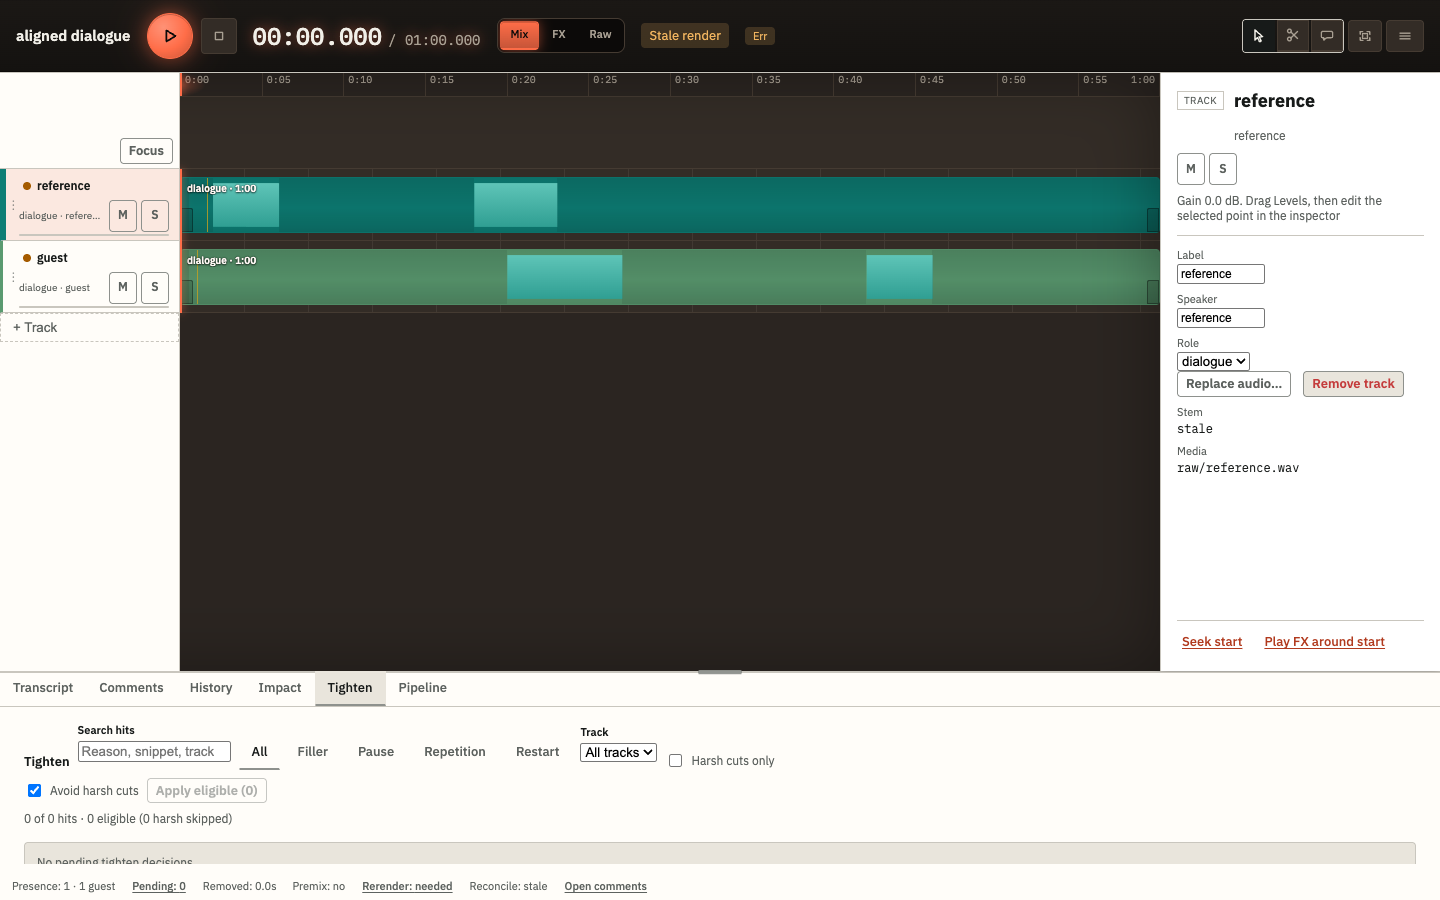
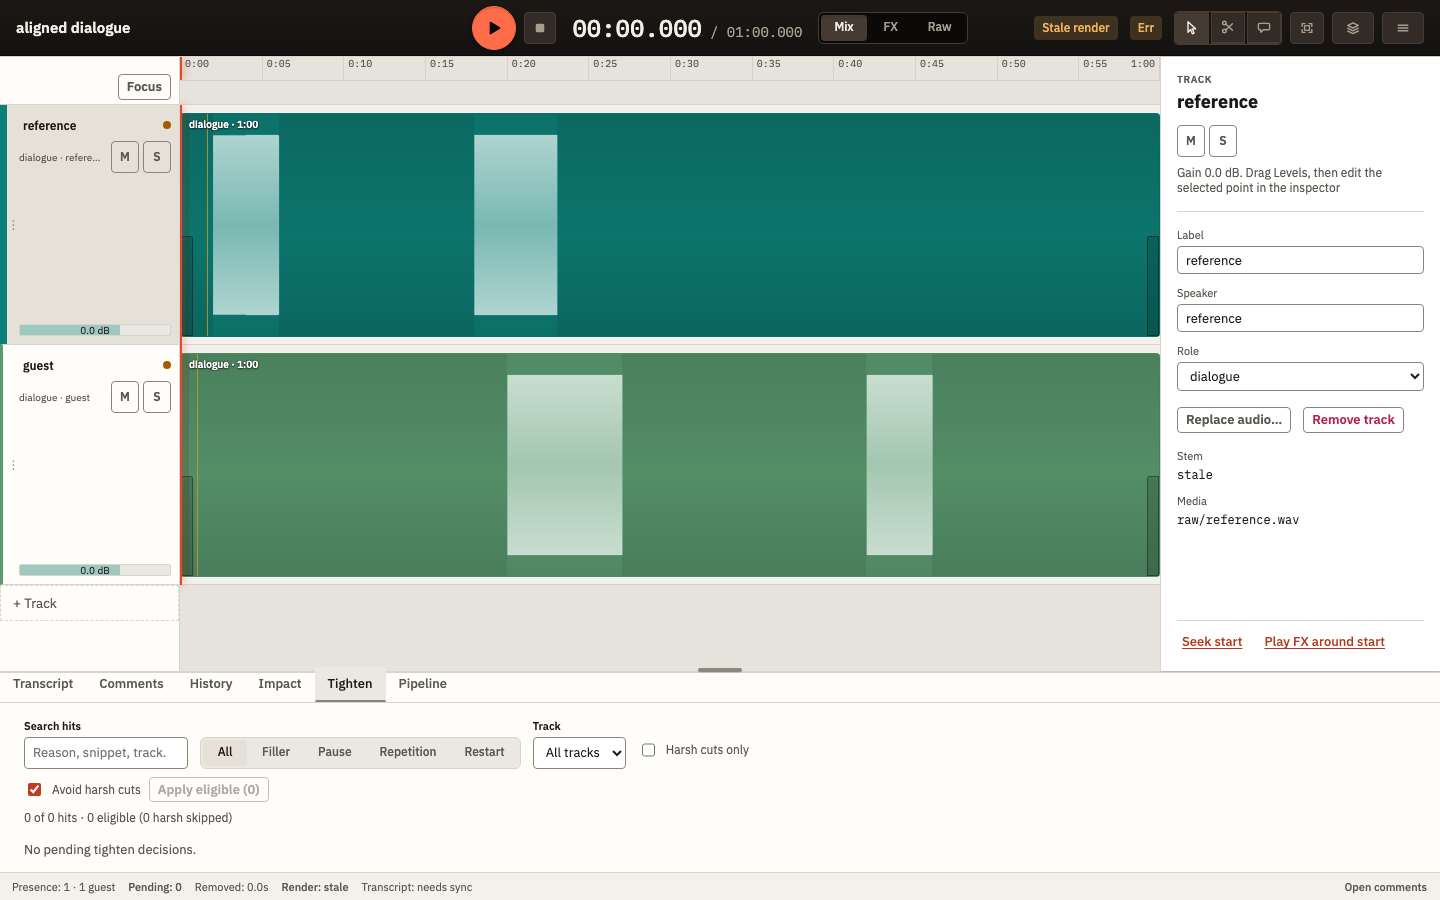
docs(issue-20): regenerate the gallery in both themes
Capture every after view in light and dark (the light files keep their
names so the before/after pairs line up) and add the phone Listen hero.
The gallery README gains a dark column and points at the Storybook
entries behind each view.

Fix what the new captures surfaced: the empty-stage drop label used the
fixed transport ink and vanished on the light stage (it now uses the
themed text color), and the empty-stage copy spelled the shortcut as
"Mod+I" instead of the platform form (⌘I / Ctrl+I).

Related #20

diff --git a/gui/web/e2e/design-polish.spec.ts b/gui/web/e2e/design-polish.spec.ts
@@ -1,6 +1,6 @@
 import fs from "node:fs";
 import path from "node:path";
-import { expect, test } from "@playwright/test";
+import { expect, type Page, test } from "@playwright/test";
 import { expectPageAxeClean } from "./axe";
 import { e2eProjectPath } from "./env";
 
@@ -280,88 +280,103 @@ test("Share dialog floats on the overlay rung over a dark scrim", async ({
 });
 
 test("capture issue 20 review views", async ({ browser }) => {
-  test.setTimeout(30_000);
+  test.setTimeout(90_000);
   const directory = process.env.DESIGN_POLISH_SCREENSHOT_DIR;
   test.skip(!directory, "Set DESIGN_POLISH_SCREENSHOT_DIR for review capture");
   fs.mkdirSync(directory!, { recursive: true });
 
-  const desktop = await browser.newPage({
-    viewport: { width: 1440, height: 900 },
-  });
-  try {
-    await desktop.emulateMedia({ reducedMotion: "reduce" });
-    await desktop.goto(`/?project=${encodeURIComponent(e2eProjectPath)}`);
-    await expect(desktop.locator(".lane-row").first()).toBeVisible();
-    await expect
-      .poll(async () =>
-        desktop
-          .locator("canvas.clip-waveform")
-          .first()
-          .evaluate((canvas) => {
-            const surface = canvas as HTMLCanvasElement;
-            if (!surface.width || !surface.height) return false;
-            const pixels = surface
-              .getContext("2d")
-              ?.getImageData(0, 0, surface.width, surface.height).data;
-            return pixels
-              ? pixels.some((value, index) => index % 4 === 3 && value > 0)
-              : false;
-          }),
-      )
-      .toBe(true);
-    await desktop.screenshot({ path: path.join(directory!, "timeline.png") });
+  // Light files keep their names (paired with before/); dark adds "-dark".
+  for (const theme of ["light", "dark"] as const) {
+    const suffix = theme === "light" ? "" : "-dark";
+    const shot = (name: string) =>
+      path.join(directory!, `${name}${suffix}.png`);
+    const pinTheme = async (page: Page) =>
+      page.evaluate((value) => {
+        document.documentElement.dataset.theme = value;
+      }, theme);
 
-    await desktop
-      .getByRole("button", { name: "Open track details, reference" })
-      .focus();
-    await desktop.keyboard.press("Enter");
-    await expect(desktop.locator(".inspector")).toBeVisible();
-    await desktop.screenshot({ path: path.join(directory!, "inspector.png") });
-
-    await desktop.getByRole("button", { name: "Menu", exact: true }).click();
-    await desktop.getByRole("menuitem", { name: /Share/ }).click();
-    await expect(desktop.getByRole("dialog", { name: "Share" })).toBeVisible();
-    await expect
-      .poll(() =>
-        desktop
-          .getByRole("dialog", { name: "Share" })
-          .evaluate((dialog) => getComputedStyle(dialog).opacity),
-      )
-      .toBe("1");
-    await desktop.screenshot({
-      path: path.join(directory!, "share-dialog.png"),
+    const desktop = await browser.newPage({
+      viewport: { width: 1440, height: 900 },
     });
-    await desktop
-      .getByRole("dialog", { name: "Share" })
-      .getByRole("button", { name: "Close", exact: true })
-      .click();
+    try {
+      await desktop.emulateMedia({
+        reducedMotion: "reduce",
+        colorScheme: theme,
+      });
+      await desktop.goto(`/?project=${encodeURIComponent(e2eProjectPath)}`);
+      await pinTheme(desktop);
+      await expect(desktop.locator(".lane-row").first()).toBeVisible();
+      await expect
+        .poll(async () =>
+          desktop
+            .locator("canvas.clip-waveform")
+            .first()
+            .evaluate((canvas) => {
+              const surface = canvas as HTMLCanvasElement;
+              if (!surface.width || !surface.height) return false;
+              const pixels = surface
+                .getContext("2d")
+                ?.getImageData(0, 0, surface.width, surface.height).data;
+              return pixels
+                ? pixels.some((value, index) => index % 4 === 3 && value > 0)
+                : false;
+            }),
+        )
+        .toBe(true);
+      await desktop.screenshot({ path: shot("timeline") });
 
-    await desktop
-      .getByLabel("Editor panels")
-      .getByRole("button", { name: "Tighten", exact: true })
-      .click();
-    await expect(
-      desktop.getByText("No pending tighten decisions."),
-    ).toBeVisible();
-    await desktop.screenshot({
-      path: path.join(directory!, "empty-state.png"),
+      await desktop
+        .getByRole("button", { name: "Open track details, reference" })
+        .focus();
+      await desktop.keyboard.press("Enter");
+      await expect(desktop.locator(".inspector")).toBeVisible();
+      await desktop.screenshot({ path: shot("inspector") });
+
+      await desktop.getByRole("button", { name: "Menu", exact: true }).click();
+      await desktop.getByRole("menuitem", { name: /Share/ }).click();
+      await expect(
+        desktop.getByRole("dialog", { name: "Share" }),
+      ).toBeVisible();
+      await expect
+        .poll(() =>
+          desktop
+            .getByRole("dialog", { name: "Share" })
+            .evaluate((dialog) => getComputedStyle(dialog).opacity),
+        )
+        .toBe("1");
+      await desktop.screenshot({ path: shot("share-dialog") });
+      await desktop
+        .getByRole("dialog", { name: "Share" })
+        .getByRole("button", { name: "Close", exact: true })
+        .click();
+
+      await desktop
+        .getByLabel("Editor panels")
+        .getByRole("button", { name: "Tighten", exact: true })
+        .click();
+      await expect(
+        desktop.getByText("No pending tighten decisions."),
+      ).toBeVisible();
+      await desktop.screenshot({ path: shot("empty-state") });
+    } finally {
+      await desktop.close();
+    }
+
+    const phone = await browser.newPage({
+      viewport: { width: 390, height: 844 },
     });
-  } finally {
-    await desktop.close();
-  }
-
-  const phone = await browser.newPage({
-    viewport: { width: 390, height: 844 },
-  });
-  try {
-    await phone.emulateMedia({ reducedMotion: "reduce" });
-    await phone.goto(`/?project=${encodeURIComponent(e2eProjectPath)}`);
-    await expect(
-      phone.getByRole("navigation", { name: "Primary" }),
-    ).toBeVisible();
-    await phone.screenshot({ path: path.join(directory!, "mobile-nav.png") });
-  } finally {
-    await phone.close();
+    try {
+      await phone.emulateMedia({ reducedMotion: "reduce", colorScheme: theme });
+      await phone.goto(`/?project=${encodeURIComponent(e2eProjectPath)}`);
+      await pinTheme(phone);
+      await expect(
+        phone.getByRole("navigation", { name: "Primary" }),
+      ).toBeVisible();
+      await expect(phone.locator(".listen-hero")).toBeVisible();
+      await phone.screenshot({ path: shot("mobile-nav") });
+    } finally {
+      await phone.close();
+    }
   }
 });
 
@@ -372,12 +387,22 @@ test("capture empty timeline review view", async ({ page }) => {
     "Set EMPTY_STAGE_SCREENSHOT_DIR with an empty E2E project",
   );
   await page.setViewportSize({ width: 1440, height: 900 });
-  await page.emulateMedia({ reducedMotion: "reduce" });
-  await page.goto(`/?project=${encodeURIComponent(e2eProjectPath)}`);
-  await expect(
-    page.getByRole("button", { name: "Drop audio files or import" }),
-  ).toBeVisible();
-  await expectPageAxeClean(page);
   fs.mkdirSync(directory!, { recursive: true });
-  await page.screenshot({ path: path.join(directory!, "empty-timeline.png") });
+  for (const theme of ["light", "dark"] as const) {
+    await page.emulateMedia({ reducedMotion: "reduce", colorScheme: theme });
+    await page.goto(`/?project=${encodeURIComponent(e2eProjectPath)}`);
+    await page.evaluate((value) => {
+      document.documentElement.dataset.theme = value;
+    }, theme);
+    await expect(
+      page.getByRole("button", { name: "Drop audio files or import" }),
+    ).toBeVisible();
+    await expectPageAxeClean(page);
+    await page.screenshot({
+      path: path.join(
+        directory!,
+        theme === "light" ? "empty-timeline.png" : "empty-timeline-dark.png",
+      ),
+    });
+  }
 });

diff --git a/gui/web/src/layout/StudioShell.tsx b/gui/web/src/layout/StudioShell.tsx
@@ -13,6 +13,7 @@ import {
 } from "../ingest/dropLabels";
 import { ingestFiles } from "../ingest/ingestFiles";
 import { Inspector } from "../inspector/Inspector";
+import { displayShortcutKeys, keymapCommandById } from "../keymap/registry";
 import { CommentsPanel } from "../panels/CommentsPanel";
 import { HistoryPanel } from "../panels/HistoryPanel";
 import { ImpactPanel } from "../panels/ImpactPanel";
@@ -29,6 +30,7 @@ import { TimelineView } from "../timeline/TimelineView";
 import { TrackHeadersColumn } from "../tracks/TrackHeadersColumn";
 import { BottomSheet, FocusToggle, ToggleButton } from "../ui";
 import { isPipelineSlotBusy } from "../utils/pipeline";
+import { isApplePlatform } from "../utils/platform";
 import { BottomTabsSplitter } from "./BottomTabsSplitter";
 import { EditingToolRail } from "./EditingToolRail";
 import { FollowBanner } from "./FollowBanner";
@@ -39,6 +41,10 @@ import { TransportBar } from "./TransportBar";
 import { TAB_LABELS } from "./tabLabels";
 
 export function StudioShell({ guestShare = false }: { guestShare?: boolean }) {
+  const importBinding = keymapCommandById("media.import");
+  const importShortcut = importBinding
+    ? displayShortcutKeys(importBinding, isApplePlatform())
+    : "Menu";
   const {
     project,
     selection,
@@ -211,7 +217,7 @@ export function StudioShell({ guestShare = false }: { guestShare?: boolean }) {
                   <span className="empty-session-drop-label">
                     {addDropOver
                       ? newTracksDropLabel(addFileCount)
-                      : "Drop audio files here, or Import Audio (Mod+I)"}
+                      : `Drop audio files here, or Import Audio (${importShortcut})`}
                   </span>
                 </button>
                 {coachOpen ? (
@@ -221,7 +227,7 @@ export function StudioShell({ guestShare = false }: { guestShare?: boolean }) {
                   >
                     <p>
                       Drop stems here. Use one file per speaker. Import is also
-                      under Menu (Mod+I).
+                      under Menu ({importShortcut}).
                     </p>
                     <button
                       type="button"

diff --git a/gui/web/src/styles/partials/ingest.css b/gui/web/src/styles/partials/ingest.css
@@ -92,7 +92,7 @@
   border: 1px dashed var(--color-timeline-text);
   border-radius: var(--radius-lg);
   margin: var(--space-3);
-  color: var(--color-transport-text);
+  color: var(--color-text-primary);
   min-height: 12rem;
   background: var(--bg-empty-stage-card);
   cursor: pointer;
@@ -122,7 +122,7 @@
 
 .empty-session-drop:focus-visible {
   border-color: var(--color-accent);
-  color: var(--color-transport-text);
+  color: var(--color-text-primary);
   outline: var(--focus-ring-width) solid var(--color-accent);
   outline-offset: var(--focus-ring-offset);
 }
@@ -130,7 +130,7 @@
 @media (hover: hover) and (pointer: fine) {
   .empty-session-drop:hover {
     border-color: var(--color-accent);
-    color: var(--color-transport-text);
+    color: var(--color-text-primary);
     box-shadow: var(--shadow-empty-stage-hover);
   }
 }

diff --git a/docs/issue-20/README.md b/docs/issue-20/README.md
@@ -1,17 +1,23 @@
 # Issue #20 visual comparison
 
-These captures use the same deterministic Playwright episode fixture, viewport,
-and light theme before and after the design polish change. Desktop views are
-1440 × 900; the mobile navigation view is 390 × 844. The capture path is
-`gui/web/e2e/design-polish.spec.ts`.
-The empty timeline uses a separate disposable empty project with
-`EMPTY_STAGE_SCREENSHOT_DIR` set during capture.
+These captures use the same deterministic Playwright episode fixture and
+viewport before and after the design polish change. **Before** is the light
+theme on `main` before #20; **after** shows the facelift in both themes.
+Desktop views are 1440 × 900; the phone view is 390 × 844 (the Listen screen
+with its hero). The capture path is `gui/web/e2e/design-polish.spec.ts`
+(`DESIGN_POLISH_SCREENSHOT_DIR`). The empty timeline uses a separate
+disposable empty project with `EMPTY_STAGE_SCREENSHOT_DIR` set during capture.
 
-| View | Before | After |
-| --- | --- | --- |
-| Timeline | ![Timeline before](before/timeline.png) | ![Timeline after](after/timeline.png) |
-| Inspector | ![Inspector before](before/inspector.png) | ![Inspector after](after/inspector.png) |
-| Share dialog | ![Share dialog before](before/share-dialog.png) | ![Share dialog after](after/share-dialog.png) |
-| Empty state | ![Empty state before](before/empty-state.png) | ![Empty state after](after/empty-state.png) |
-| Empty timeline | — | ![Empty timeline after](after/empty-timeline.png) |
-| Mobile navigation | ![Mobile navigation before](before/mobile-nav.png) | ![Mobile navigation after](after/mobile-nav.png) |
+| View | Before (light) | After (light) | After (dark) |
+| --- | --- | --- | --- |
+| Timeline | ![Timeline before](before/timeline.png) | ![Timeline after, light](after/timeline.png) | ![Timeline after, dark](after/timeline-dark.png) |
+| Inspector | ![Inspector before](before/inspector.png) | ![Inspector after, light](after/inspector.png) | ![Inspector after, dark](after/inspector-dark.png) |
+| Share dialog | ![Share dialog before](before/share-dialog.png) | ![Share dialog after, light](after/share-dialog.png) | ![Share dialog after, dark](after/share-dialog-dark.png) |
+| Empty state | ![Empty state before](before/empty-state.png) | ![Empty state after, light](after/empty-state.png) | ![Empty state after, dark](after/empty-state-dark.png) |
+| Empty timeline | — | ![Empty timeline after, light](after/empty-timeline.png) | ![Empty timeline after, dark](after/empty-timeline-dark.png) |
+| Phone Listen | ![Phone before](before/mobile-nav.png) | ![Phone after, light](after/mobile-nav.png) | ![Phone after, dark](after/mobile-nav-dark.png) |
+
+Storybook has the reusable pieces behind these views for iteration:
+`Atoms/SurfaceLadder` (palette from live tokens), `Templates/Transport`,
+`Templates/ListenHero`, `Molecules/SegmentedControl`, `Molecules/Menu`,
+`Atoms/Pill`, `Atoms/Timecode`, `Atoms/EmptyState`, and `Atoms/Icon`.

diff --git a/ux/pages/screen-inventory.md b/ux/pages/screen-inventory.md
@@ -60,7 +60,7 @@ flowchart TB
 | **View menu (wide)** | Layer toggles, zoom, Fit if omitted, theme, focus modes |
 | **Menu (collapsed)** | One combined menu: Project, Media, audition Mix/FX/Raw, session, **Refresh mix** when render is stale, layers, view, Help |
 | **Data shown** | Playhead (timeline sec) · duration · audition kind · optional stale-render note |
-| **Empty / error** | Known `?project=` but shell not yet: real transport chrome, **Loading episode…**, play disabled. Zero tracks after load: ingest “Drop audio files” (not the loading well). Host with no path: home launch. Guest: token/project load failure |
+| **Empty / error** | Known `?project=` but shell not yet: real transport chrome, **Loading episode…**, play disabled. Zero tracks after load: ingest “Drop audio files” (not the loading well). Host with no path: home launch. Guest: token/project load failure The empty stage names the import shortcut in platform form (⌘I on Apple platforms, Ctrl+I elsewhere) and uses themed ink on the light stage; Play stays disabled until the project has media. |
 | **Out of scope** | Full mixer; pipeline step runner (status chips / Pipeline tab) |
 
 The overflow Menu panel caps to remaining space under the trigger (`min(90dvh, var(--menu-available-height))`) and scrolls so **Keyboard shortcuts** stays reachable on short laptop heights, including when guest/follow banners sit above the transport. The shortcut dialog explains that character keys apply when the timeline or transcript has focus.
